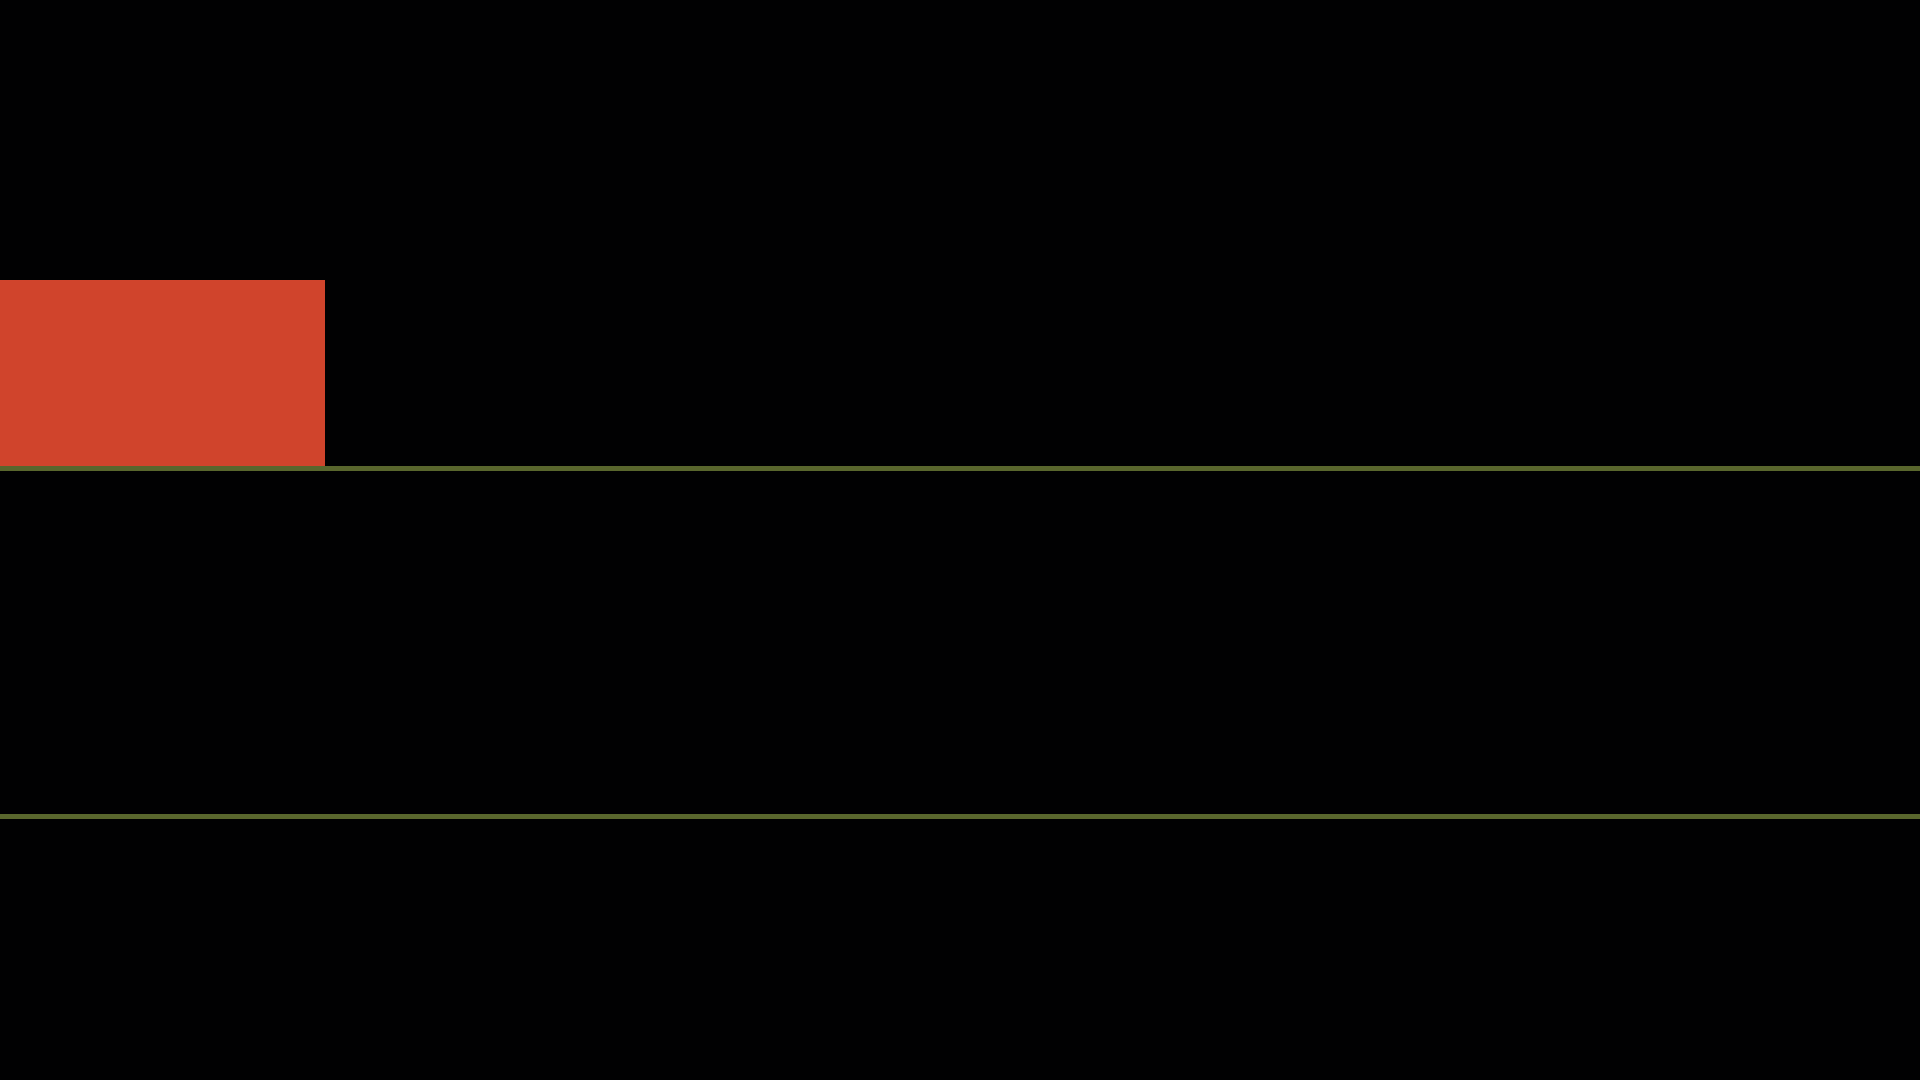
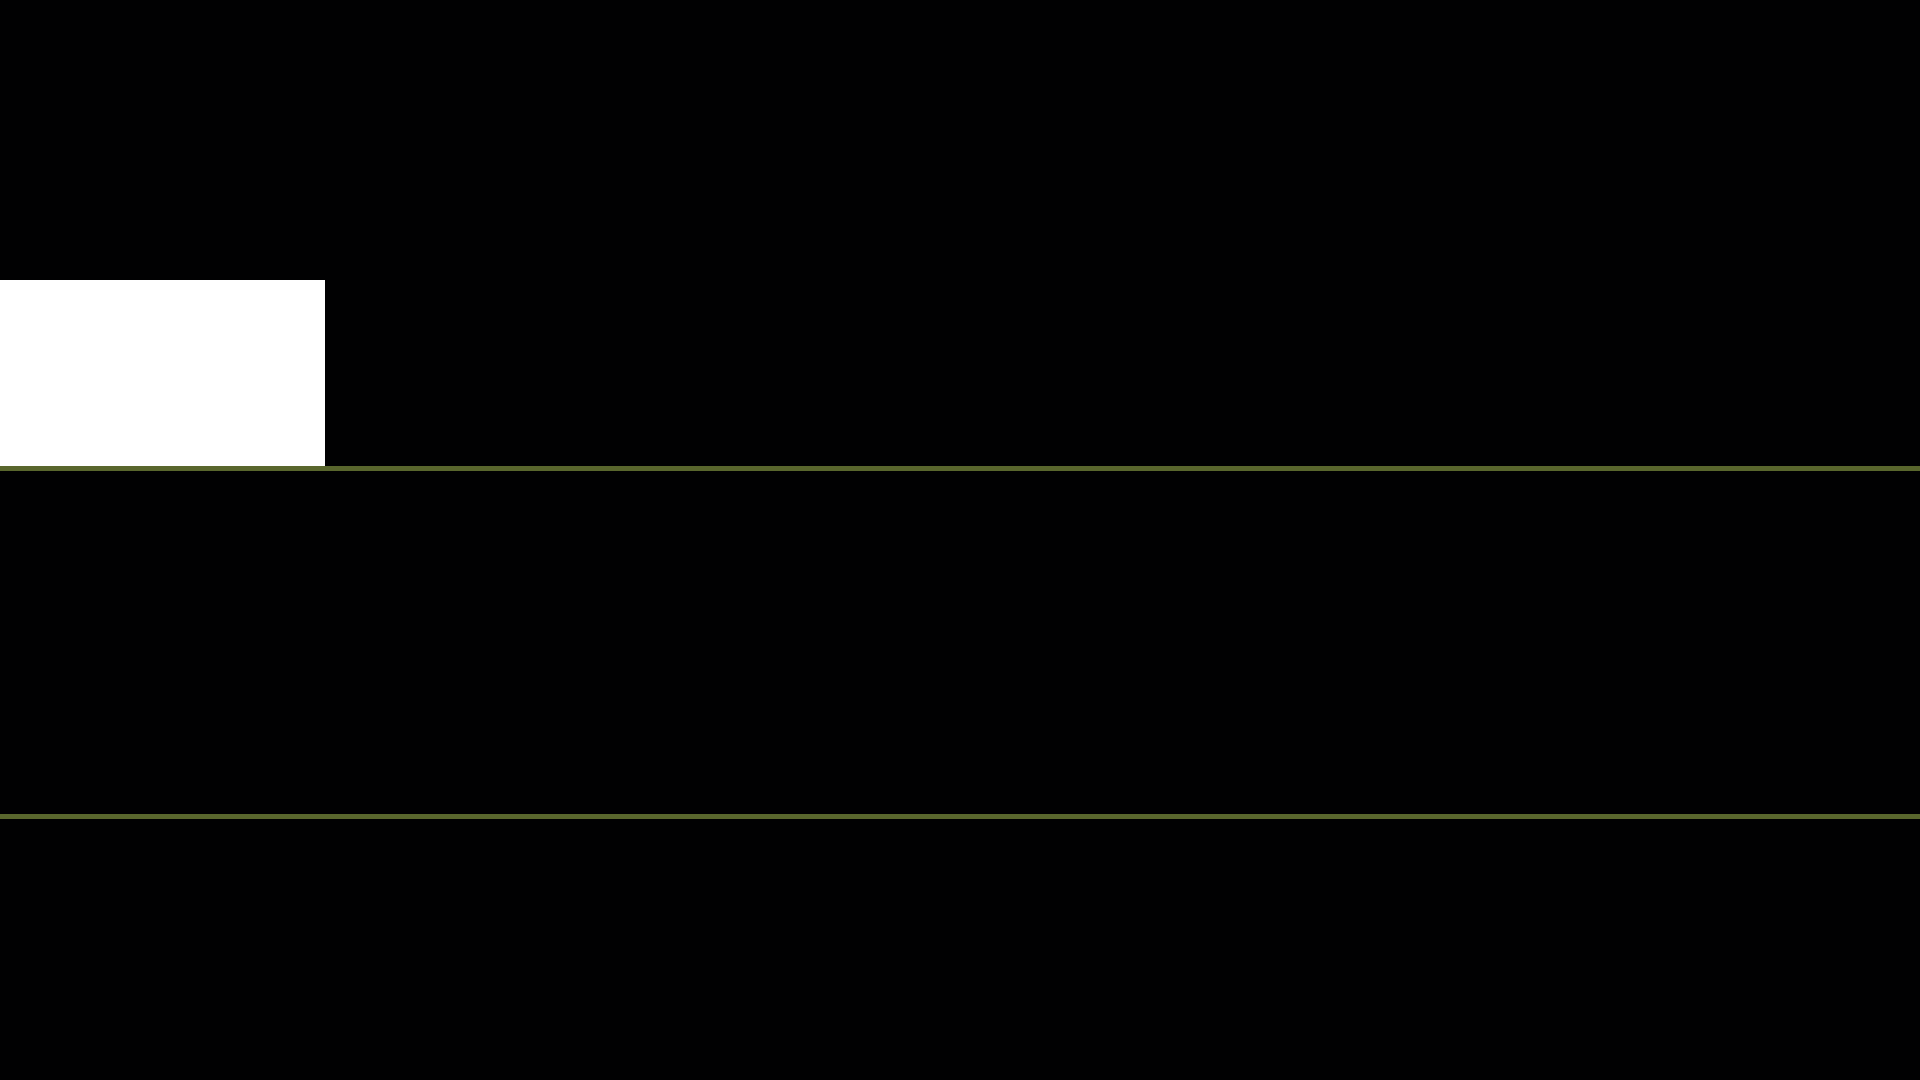
added the ability to change the style of the route number field on the hamburg subway (colored) pids

Changed region(s): [[0.0, 0.2444, 0.1875, 0.4583]]

diff --git a/assets/jsblock/scripts/hamburg_ubahn_colored.js b/assets/jsblock/scripts/hamburg_ubahn_colored.js
@@ -2,57 +2,79 @@ function create(ctx, state, pids) {
 }
 
 function render(ctx, state, pids) {
-    Texture.create("Background")
-    .texture("jsblock:custom_directory/hamburg_u_bahn_colored.png")
-    .size(pids.width, pids.height)
-    .draw(ctx);
-
     let arrival = pids.arrivals().get(0);
-    let customMsgs = [pids.getCustomMessage(0), pids.getCustomMessage(1), pids.getCustomMessage(2), pids.getCustomMessage(3)];
-    if(arrival != null) {
+    let customMsgs = pids.getCustomMessage(0) + ";" + pids.getCustomMessage(1) + ";" + pids.getCustomMessage(2) + ";" + pids.getCustomMessage(2);
+    customMsgs = customMsgs.split(';');
+    customMsgs = customMsgs.map(item => item.trim());
+
+    if (arrival != null) {
+        let color = arrival.routeColor()
+        let colorMsg = customMsgs.find(item => item.includes(arrival.routeNumber() + "_color" + ": #"))
+        if (colorMsg) {
+            color = "0x" + colorMsg.replace(arrival.routeNumber() + "_color" + ": #", "")
+        }
+
+        Texture.create("Background")
+            .texture("jsblock:custom_directory/hamburg_u_bahn_colored.png")
+            .size(pids.width, pids.height)
+            .color(color)
+            .draw(ctx);
+
         Text.create("Number Text")
-        .text(arrival.routeNumber())
-        .centerAlign()
-        .pos(11, 2.5)
-        .size(22, 50)
-        .scaleXY()
-        .color(0x000000)
-        .draw(ctx);
+            .text(arrival.routeNumber())
+            .centerAlign()
+            .pos(11, 2.5)
+            .size(22, 50)
+            .scaleXY()
+            .color(0x000000)
+            .draw(ctx);
 
         Text.create("Arrival destination")
-        .text(TextUtil.cycleString(arrival.destination()))
-        .pos(80, 2.5)
-        .size(110, 50)
-        .centerAlign()
-        .scaleXY()
-        .color(0xca204e)
-        .draw(ctx);
+            .text(TextUtil.cycleString(arrival.destination()))
+            .pos(80, 2.5)
+            .size(110, 50)
+            .centerAlign()
+            .scaleXY()
+            .color(0xca204e)
+            .draw(ctx);
 
         let eta = (arrival.arrivalTime() - Date.now()) / 60000;
-        if(eta < 0.5) {eta = "fährt sofort"} else if (eta < 1.5 && eta > 0.49) {eta = "in " + Math.round(eta) + " Minute"} else {eta = "in " + Math.round(eta) + " Minuten"}
+        if (eta < 0.5) {
+            eta = "fährt sofort"
+        } else if (eta < 1.5 && eta > 0.49) {
+            eta = "in " + Math.round(eta) + " Minute"
+        } else {
+            eta = "in " + Math.round(eta) + " Minuten"
+        }
         Text.create("Arrival ETA")
-        .text(eta)
-        .color(0x506823)
-        .pos(pids.width - 0.5, 60)
-        .size(75, 9)
-        .scaleXY()
-        .rightAlign()
-        .draw(ctx);
+            .text(eta)
+            .color(0x506823)
+            .pos(pids.width - 0.5, 60)
+            .size(75, 9)
+            .scaleXY()
+            .rightAlign()
+            .draw(ctx);
 
-        for(let customMsg of customMsgs) {
-            if(customMsg.includes(arrival.routeNumber(), ":")) {
-              let customMsg_r = customMsg.replace(arrival.routeNumber() + ":", "") 
-              Text.create("Custom Text")
-              .text(TextUtil.cycleString(customMsg_r))
-              .size(pids.width, 20)
-              .pos(65, 37)
-              .color(0xe43319)
-              .centerAlign()
-              .wrapText()
-              .draw(ctx);
+        for (let customMsg of customMsgs) {
+            if (customMsg.includes(arrival.routeNumber() + ":")) {
+                let customMsg_r = customMsg.replace(arrival.routeNumber() + ":", "")
+                Text.create("Custom Text")
+                    .text(TextUtil.cycleString(customMsg_r))
+                    .size(pids.width, 20)
+                    .pos(65, 37)
+                    .color(0xe43319)
+                    .centerAlign()
+                    .wrapText()
+                    .draw(ctx);
             }
         }
     } else {
+        Texture.create("Background")
+            .texture("jsblock:custom_directory/hamburg_u_bahn_colored.png")
+            .size(pids.width, pids.height)
+            .color(0xe2331b)
+            .draw(ctx);
+
         Text.create("not in service")
             .text("BETRIEBSPAUSE")
             .pos(80, 2.5)

diff --git a/assets/jsblock/scripts/hamburg_ubahn_colored_1a.js b/assets/jsblock/scripts/hamburg_ubahn_colored_1a.js
@@ -2,14 +2,24 @@ function create(ctx, state, pids) {
 }
 
 function render(ctx, state, pids) {
-    Texture.create("Background")
-    .texture("jsblock:custom_directory/hamburg_u_bahn_colored_1a.png")
-    .size(pids.width, pids.height)
-    .draw(ctx);
-
     let arrival = pids.arrivals().get(0);
-    let customMsgs = [pids.getCustomMessage(0), pids.getCustomMessage(1), pids.getCustomMessage(2)];
+    let customMsgs = pids.getCustomMessage(0) + ";" + pids.getCustomMessage(1) + ";" + pids.getCustomMessage(2);
+    customMsgs = customMsgs.split(';');
+    customMsgs = customMsgs.map(item => item.trim());
+
     if(arrival != null) {
+        let color = arrival.routeColor()
+        let colorMsg = customMsgs.find(item => item.includes(arrival.routeNumber() + "_color" + ": #"))
+        if (colorMsg) {
+            color = "0x" + colorMsg.replace(arrival.routeNumber() + "_color" + ": #", "")
+        }
+
+        Texture.create("Background")
+            .texture("jsblock:custom_directory/hamburg_u_bahn_colored_1a.png")
+            .size(pids.width, pids.height)
+            .color(color)
+            .draw(ctx);
+
         Text.create("Number Text")
             .text(arrival.routeNumber())
             .centerAlign()
@@ -49,7 +59,7 @@ function render(ctx, state, pids) {
             .draw(ctx);
 
         for (let customMsg of customMsgs) {
-            if (customMsg.includes(arrival.routeNumber(), ":")) {
+            if (customMsg.includes(arrival.routeNumber() + ":")) {
                 let customMsg_r = customMsg.replace(arrival.routeNumber() + ":", "")
                 Text.create("Custom Text")
                     .text(TextUtil.cycleString(customMsg_r))
@@ -63,6 +73,11 @@ function render(ctx, state, pids) {
             }
         }
     } else {
+        Texture.create("Background")
+            .texture("jsblock:custom_directory/hamburg_u_bahn_colored_1a.png")
+            .size(pids.width, pids.height)
+            .draw(ctx);
+
         Text.create("not in service")
             .text("BETRIEBSPAUSE")
             .pos(110, -22.5)
